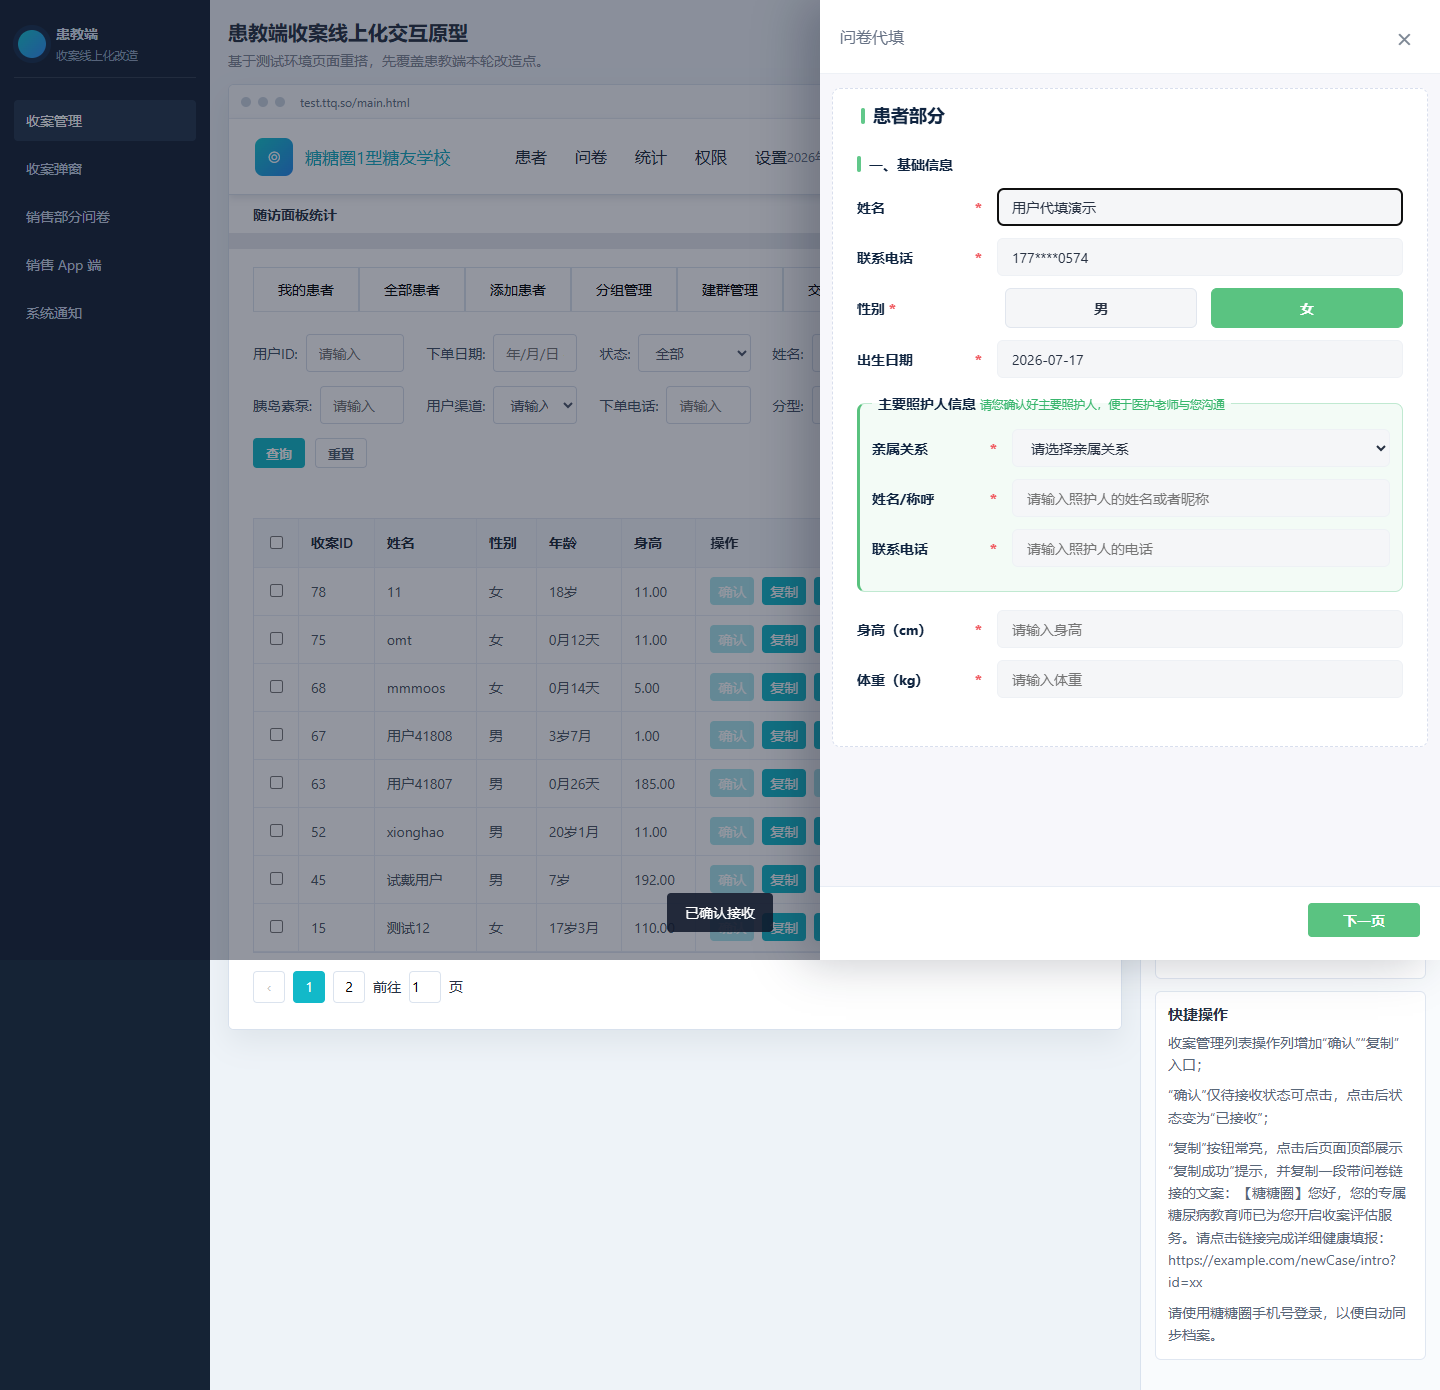
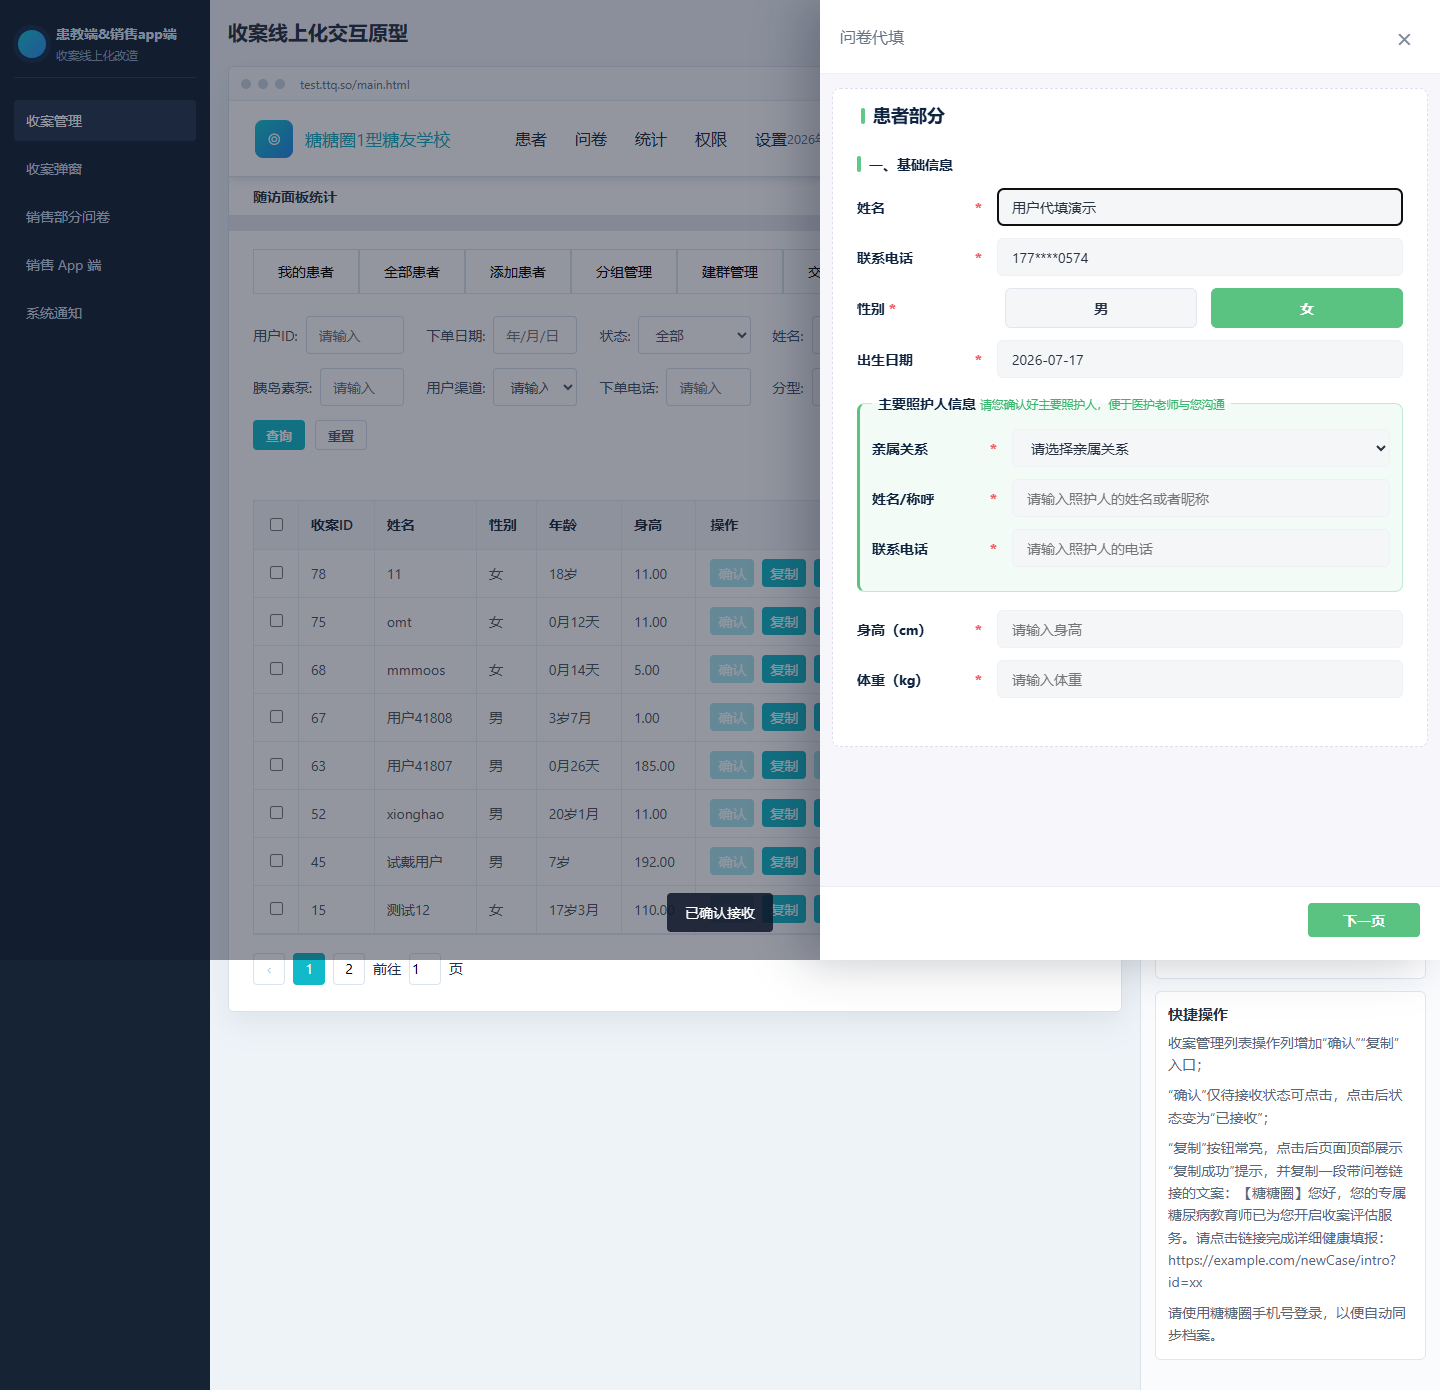
Center sales app delete dialog

diff --git a/styles.css b/styles.css
@@ -1018,7 +1018,7 @@ button {
 .sales-phone {
   position: relative;
   width: 390px;
-  min-height: 844px;
+  height: 844px;
   margin: 0 auto;
   overflow: hidden;
   border: 10px solid #171923;
@@ -1071,8 +1071,13 @@ button {
 }
 
 .sales-app-page {
-  min-height: 682px;
+  height: 682px;
+  overflow-y: auto;
   padding: 12px 14px 78px;
+}
+
+.sales-app-page::-webkit-scrollbar {
+  width: 0;
 }
 
 .app-search {
@@ -1444,12 +1449,13 @@ button {
   inset: 0;
   z-index: 4;
   display: grid;
-  align-items: end;
-  padding: 0 14px 94px;
+  place-items: center;
+  padding: 82px 14px 78px;
   background: rgba(17, 24, 39, .18);
 }
 
 .app-delete-sheet .app-confirm-card {
+  margin-top: 0;
   padding: 18px 16px 16px;
   border-radius: 14px;
   box-shadow: 0 14px 34px rgba(15, 23, 42, .2);

diff --git a/index.html b/index.html
@@ -12,7 +12,7 @@
       <div class="nav-title">
         <span class="dot"></span>
         <div>
-          <b>患教端</b>
+          <b>患教端&销售app端</b>
           <small>收案线上化改造</small>
         </div>
       </div>
@@ -26,8 +26,7 @@
     <main class="prototype-stage">
       <header class="review-header">
         <div>
-          <h1>患教端收案线上化交互原型</h1>
-          <p>基于测试环境页面重搭，先覆盖患教端本轮改造点。</p>
+          <h1>收案线上化交互原型</h1>
         </div>
         <div class="header-actions">
           <button class="ghost-btn" id="resetDemo">重置演示</button>
